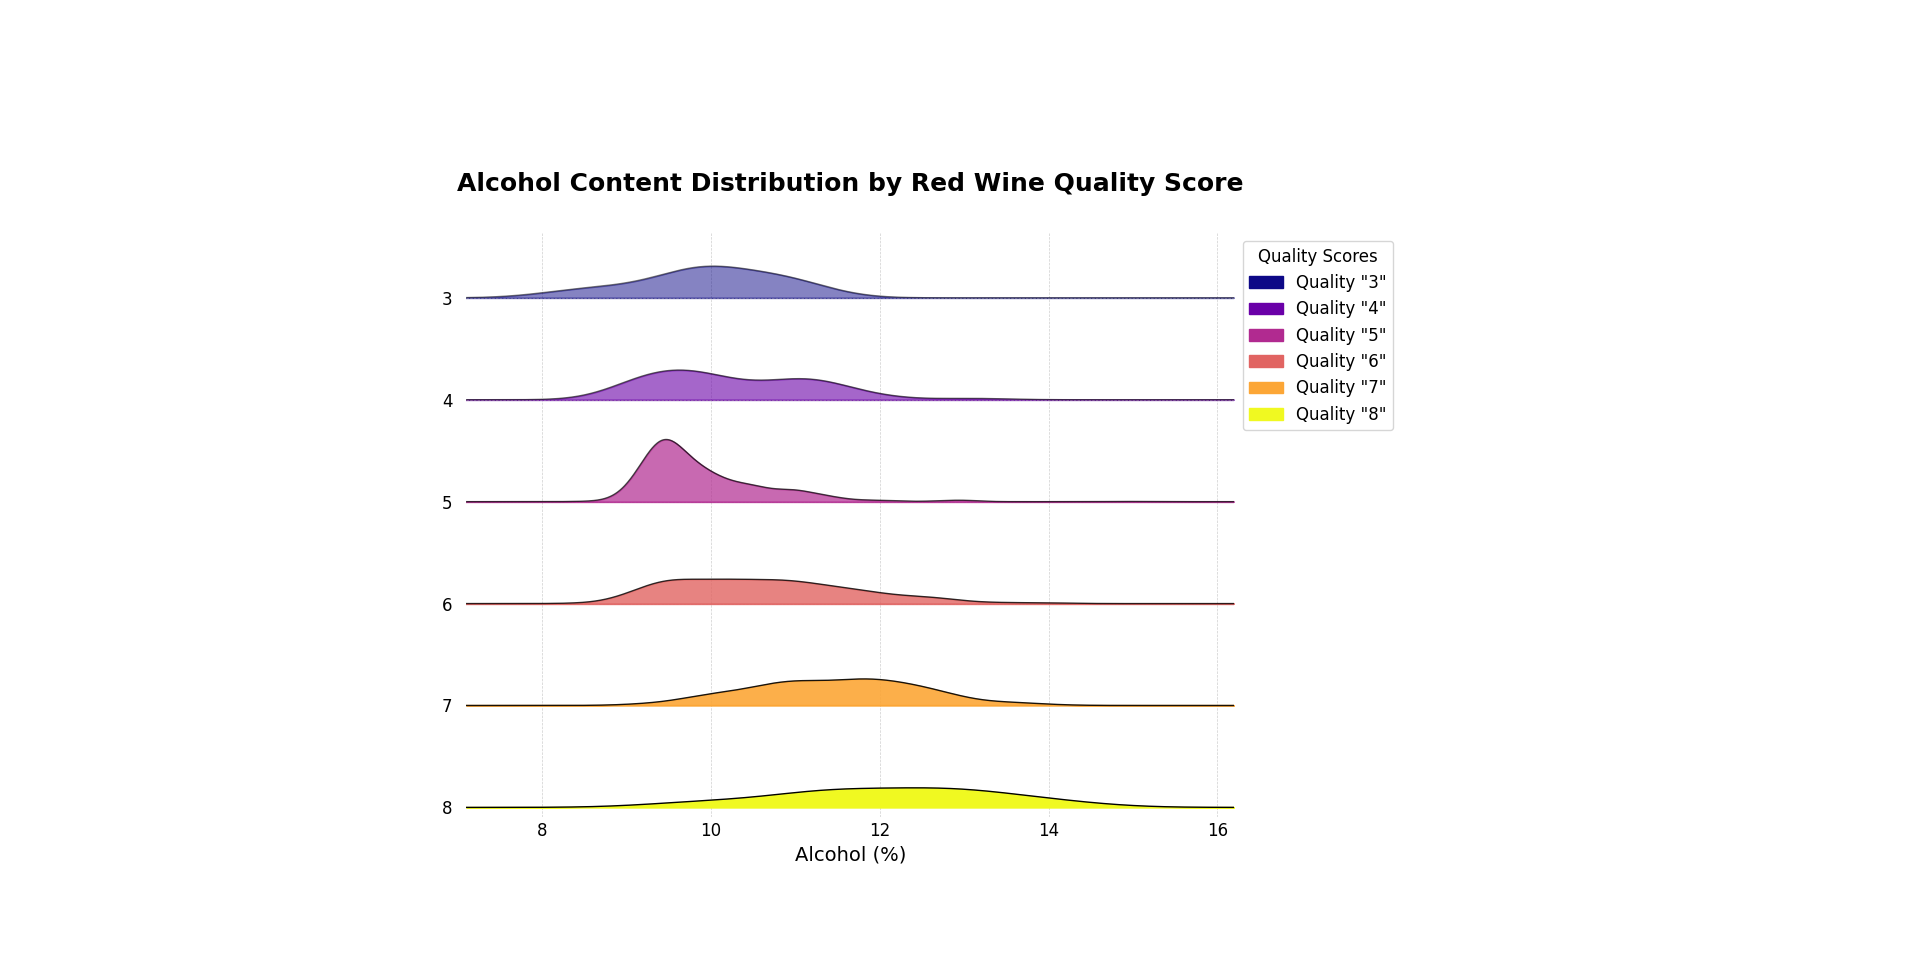
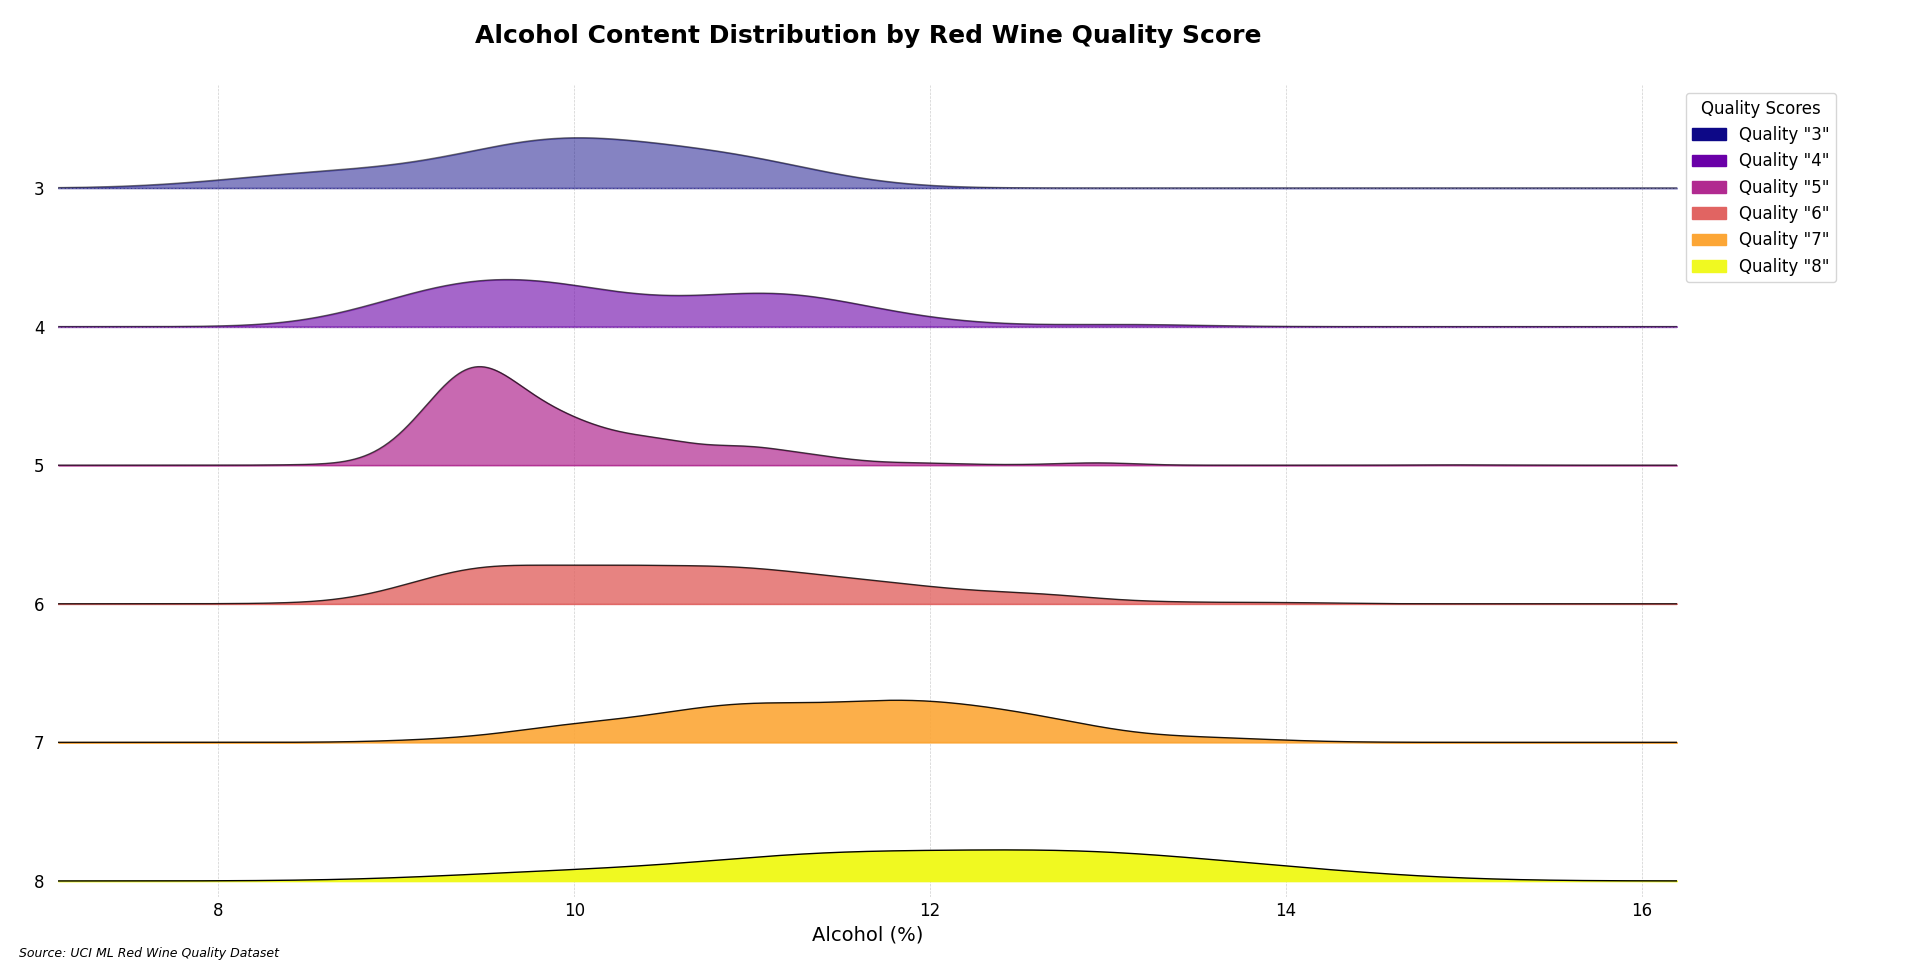
Footer added

diff --git a/pec_2_ridgeline.py b/pec_2_ridgeline.py
@@ -57,6 +57,10 @@ plt.legend(handles=handles, title='Quality Scores', loc='upper left', bbox_to_an
 for ax in axes:
     ax.grid(True, linestyle='--', linewidth=0.5, alpha=0.6)
 
+# Añadimos una nota de fuente de datos
+plt.figtext(0.01, 0.01, 'Source: UCI ML Red Wine Quality Dataset', 
+            fontsize=9, style='italic')
+
 plt.tight_layout()
 
 # Mostramos el gráfico
